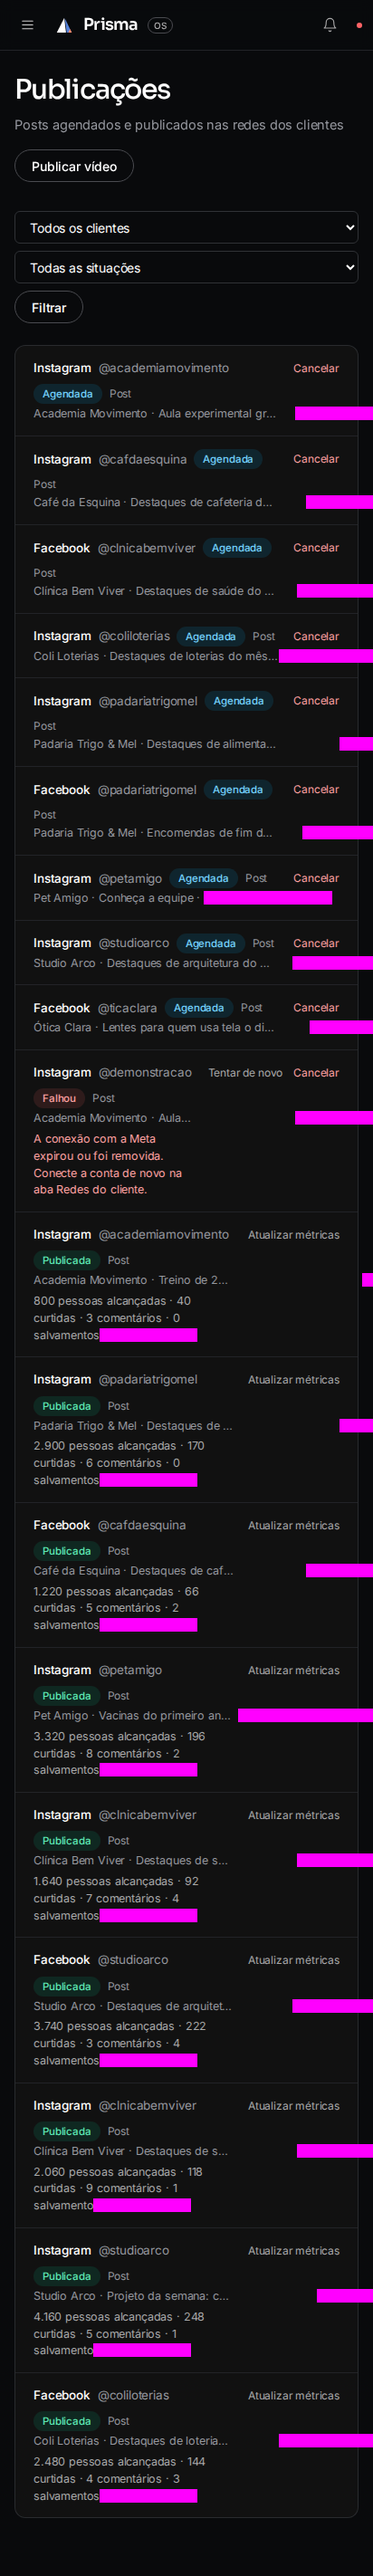
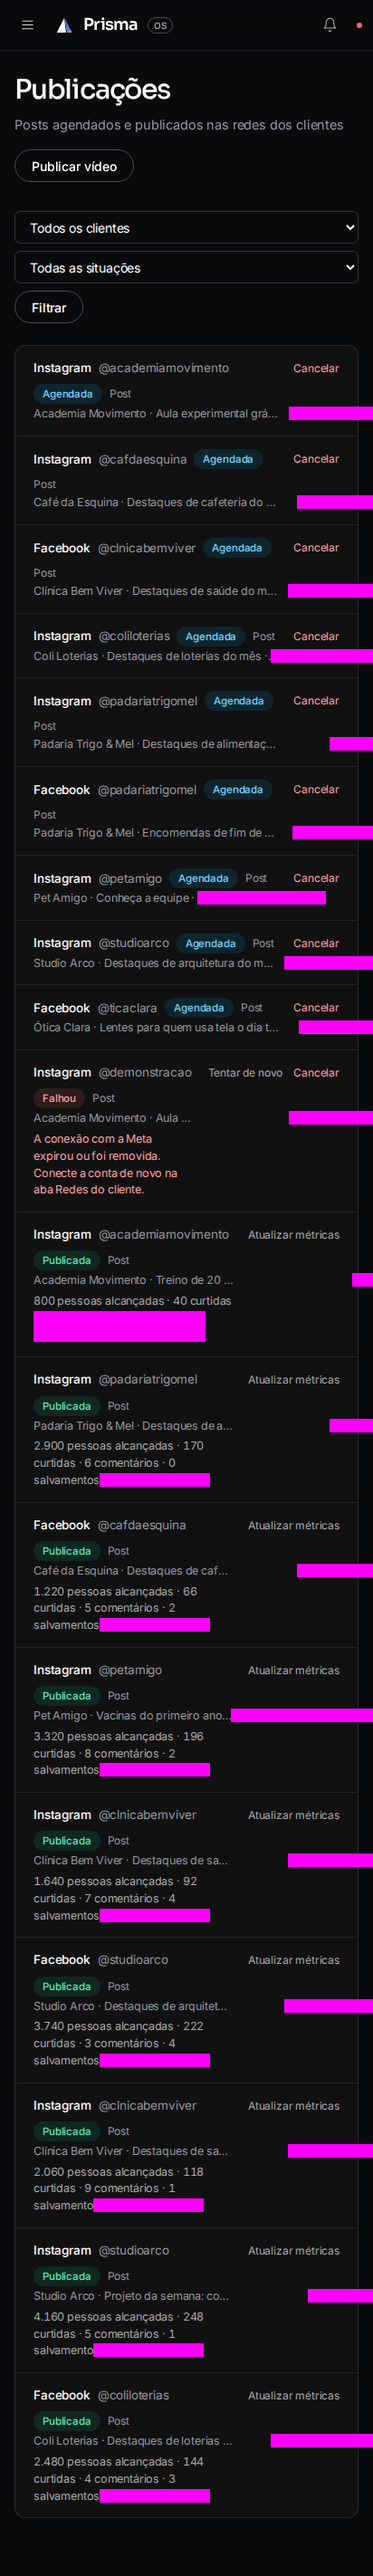
Fase 0: comparação visual e testes independentes da ordenação do banco
O CI usa o Postgres da imagem oficial (en_US.utf8) e o banco local usava
C.UTF-8: a ordem de textos mudava e derrubava um teste de tarifas e 9
das 20 telas da comparação visual.

- Teste de tarifas ordena os modelos no próprio teste.
- seed:demo distribui os estados por nome de cliente em ordem de bytes.
- npm run capturas sobe um PostgreSQL 16.4 em Docker, como o CI, e ganha
  --conferir para só comparar.
- Nas capturas, dígitos de largura fixa: a hora do dia mudava a quebra
  de uma linha no celular. Referências e docs/img/antes regeneradas.

Claude-Session: https://claude.ai/code/session_01ExQErdFqFcLxjPvarfgfGd

diff --git a/scripts/seed-demo.ts b/scripts/seed-demo.ts
@@ -249,8 +249,9 @@ async function main() {
     async (tx) =>
       (
         await tx.query<{ id: string; client_id: string; title: string; current_version_id: string }>(
-          // Ordem estável entre execuções (nome do cliente, não o id aleatório): as capturas dependem dela.
-          "SELECT ci.id, ci.client_id, ci.title, ci.current_version_id FROM content_items ci JOIN clients c ON c.id = ci.client_id WHERE ci.organization_id = $1 AND ci.status = 'in_review' ORDER BY c.name, ci.created_at, ci.title",
+          // Ordem estável entre execuções e entre bancos (nome do cliente em ordem de bytes, não o id
+          // aleatório nem a collation do banco): as capturas dependem dela.
+          'SELECT ci.id, ci.client_id, ci.title, ci.current_version_id FROM content_items ci JOIN clients c ON c.id = ci.client_id WHERE ci.organization_id = $1 AND ci.status = \'in_review\' ORDER BY c.name COLLATE "C", ci.created_at, ci.title COLLATE "C"',
           [owner.organizationId],
         )
       ).rows,

diff --git a/tests/visual/telas.spec.ts b/tests/visual/telas.spec.ts
@@ -30,7 +30,12 @@ async function login(page: Page) {
 
 async function snap(page: Page, name: string) {
   await page.waitForLoadState("networkidle");
-  await page.addStyleTag({ content: "nextjs-portal{display:none!important} *{transition:none!important}" });
+  // Dígitos de largura fixa: sem isso, a hora do dia muda a largura de uma data e, no celular, a
+  // quebra de linha (e a altura da página) muda junto. As máscaras cobrem o texto, não o layout.
+  await page.addStyleTag({
+    content:
+      "nextjs-portal{display:none!important} *{transition:none!important;font-variant-numeric:tabular-nums!important}",
+  });
   await expect(page).toHaveScreenshot(`${name}.png`, { fullPage: true, mask: dynamic(page) });
 }
 

diff --git a/tests/integration/openai-costs.test.ts b/tests/integration/openai-costs.test.ts
@@ -59,7 +59,8 @@ describe("custos com a OpenAI", () => {
         [owner.organizationId],
       ),
     );
-    expect(prices.map((p) => p.model)).toEqual(["gpt-6-astra", "gpt-6.1-sol", "gpt-6.1-terra"]);
+    // Ordenado aqui: a ordem do banco depende da collation (C.UTF-8 local, en_US.utf8 na imagem oficial).
+    expect(prices.map((p) => p.model).sort()).toEqual(["gpt-6-astra", "gpt-6.1-sol", "gpt-6.1-terra"]);
 
     setProviderOverride(
       new OpenAiProvider({

diff --git a/docs/OPERATIONS.md b/docs/OPERATIONS.md
@@ -282,7 +282,9 @@ Cria a "Agência Demonstração" (login `demo@prisma.local` / `demonstracao-123`
 npm run build
 npm run capturas            # regenera as referências e copia para docs/img/telas
 npm run capturas -- antes   # idem, para docs/img/antes
-npm run test:visual         # compara com as referências (rode dentro da imagem do Playwright)
+npm run capturas -- --conferir   # só compara com as referências, como o CI
 ```
+
+`npm run capturas` sobe sozinho um PostgreSQL 16.4 da imagem oficial (porta 55432) e o navegador da imagem do Playwright: a ordenação de texto do banco muda a ordem das listas, então um banco local com outra collation não serve de base.
 
 `tests/visual/telas.spec.ts` fotografa 10 telas, em desktop e celular, com os dados de demonstração num build de produção, e compara com `tests/visual/__snapshots__`. Datas e tempos relativos ficam mascarados. As referências são geradas na imagem `mcr.microsoft.com/playwright` da mesma versão do `@playwright/test` (é o que `npm run capturas` faz, e o que o CI usa), para a comparação não acusar diferença só por fonte do sistema. Ao atualizar o `@playwright/test`, atualize a versão da imagem no `ci.yml` e regenere as referências. `docs/img/antes` guarda as telas de antes do redesenho da Fase 1 do briefing (`docs/briefing-melhorias.pdf`).
